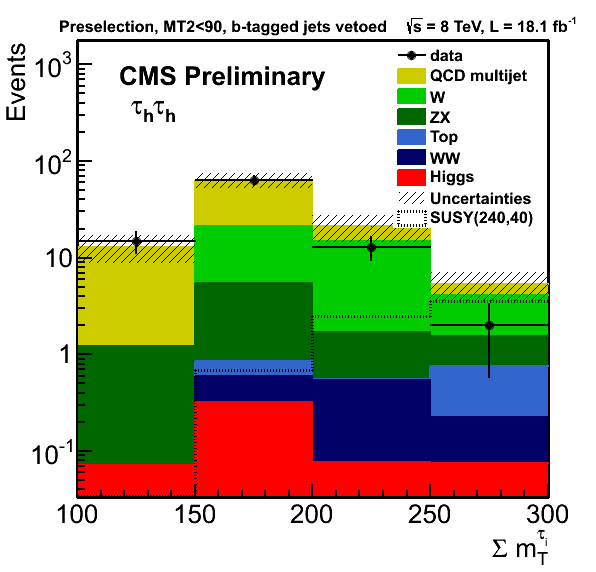
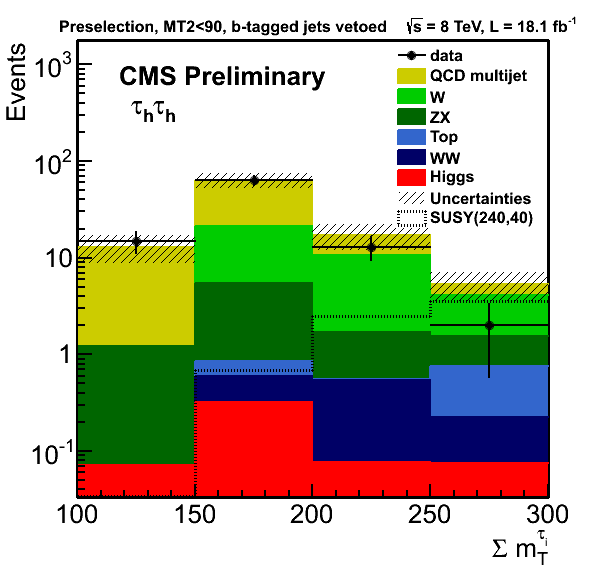
Bin3 of SumMT updated.

Changed region(s): [[0.5134, 0.3864, 0.7248, 0.4458]]

diff --git a/notes/SUS-14-022/trunk/StatisticsFig/QCDWestimation_bin2.C b/notes/SUS-14-022/trunk/StatisticsFig/QCDWestimation_bin2.C
@@ -231,10 +231,12 @@
    
    TH1D *MT2_W = new TH1D("MT2_W","",4, xAxis5);
    MT2_W->SetBinContent(2,15.56548);
-   MT2_W->SetBinContent(3,13.13984);
+//    MT2_W->SetBinContent(3,13.13984);
+   MT2_W->SetBinContent(3,9.05);
    MT2_W->SetBinContent(4,2.58335);
    MT2_W->SetBinError(2,5.872039);
-   MT2_W->SetBinError(3,5.474625);
+//    MT2_W->SetBinError(3,5.474625);
+   MT2_W->SetBinError(3,3.23);
    MT2_W->SetBinError(4,1.29);
    MT2_W->SetEntries(64);
    MT2_W->SetStats(0);
